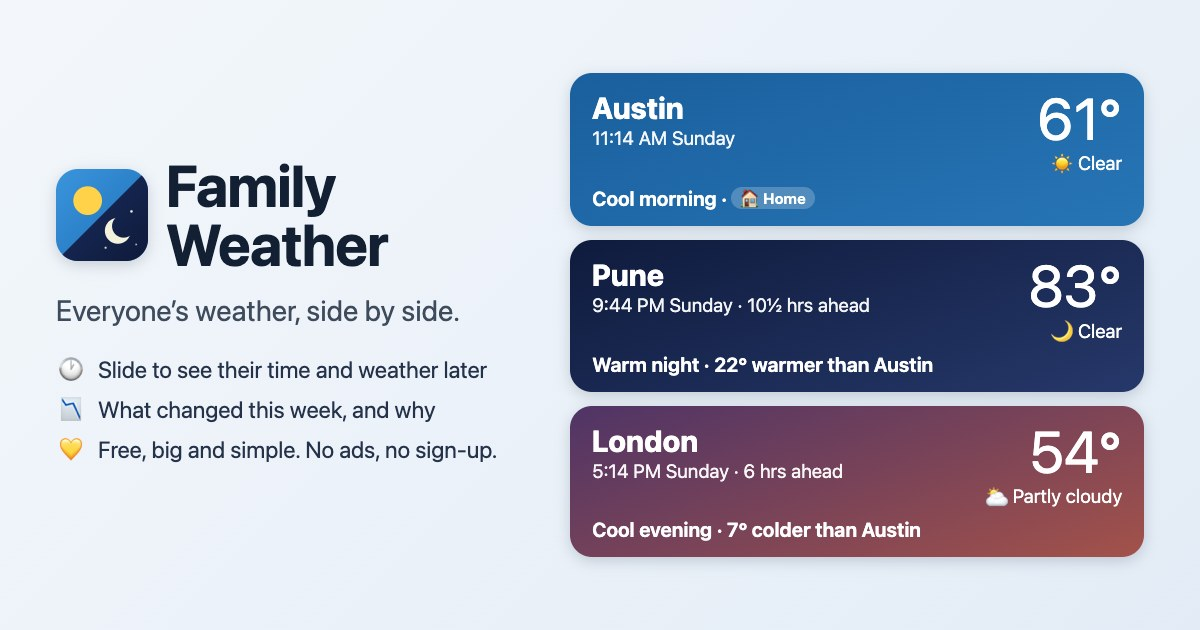
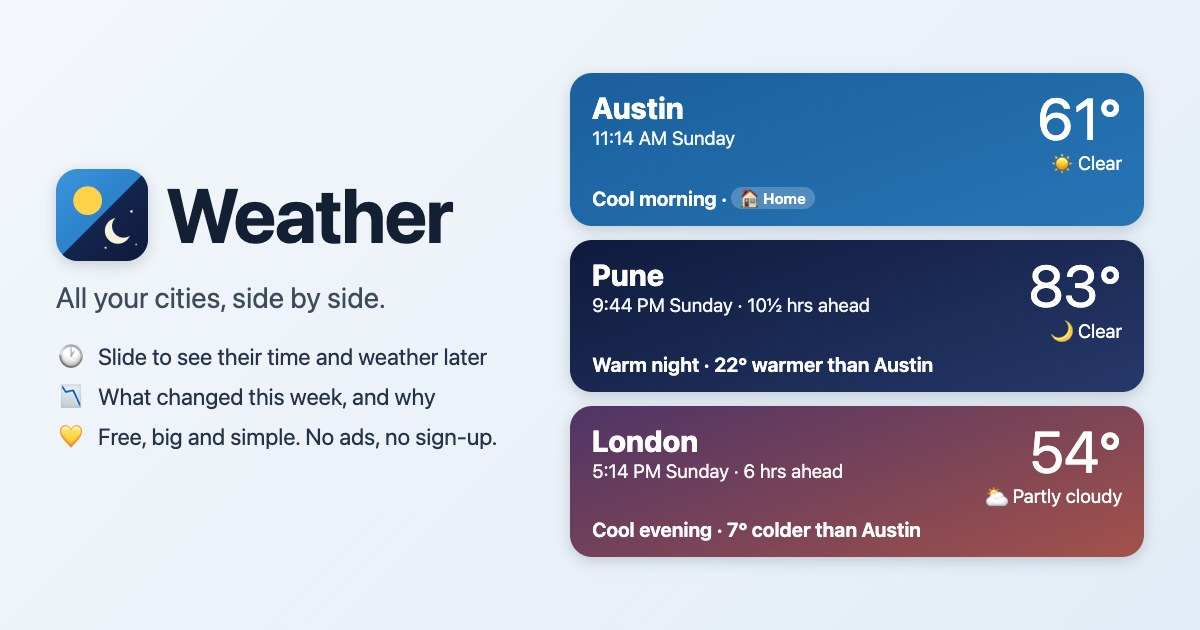
Link preview: just "Weather"
Preview title, site name, description and image drop "Family".
og:image gets ?v=2 so WhatsApp fetches the new image.

Changed region(s): [[0.0308, 0.5429, 0.4317, 0.754], [0.1233, 0.2413, 0.37, 0.4222], [0.0308, 0.4524, 0.4008, 0.5127]]

diff --git a/index.html b/index.html
@@ -16,19 +16,19 @@
 <link rel="manifest" href="manifest.json">
 <link rel="canonical" href="https://danpune.github.io/weather/">
 <meta property="og:type" content="website">
-<meta property="og:site_name" content="Family Weather">
-<meta property="og:title" content="Family Weather: everyone's weather, side by side">
-<meta property="og:description" content="All your family's cities on one page: weather right now, later today, the week ahead and what changed lately. Free, big and simple. No ads, no sign-up.">
+<meta property="og:site_name" content="Weather">
+<meta property="og:title" content="Weather: all your cities, side by side">
+<meta property="og:description" content="All your cities on one page: weather right now, later today, the week ahead and what changed lately. Free, big and simple. No ads, no sign-up.">
 <meta property="og:url" content="https://danpune.github.io/weather/">
-<meta property="og:image" content="https://danpune.github.io/weather/preview.jpg">
+<meta property="og:image" content="https://danpune.github.io/weather/preview.jpg?v=2">
 <meta property="og:image:type" content="image/jpeg">
 <meta property="og:image:width" content="1200">
 <meta property="og:image:height" content="630">
-<meta property="og:image:alt" content="Family Weather: city cards for Austin, Pune and London showing local time and temperature.">
+<meta property="og:image:alt" content="Weather: city cards for Austin, Pune and London showing local time and temperature.">
 <meta name="twitter:card" content="summary_large_image">
-<meta name="twitter:title" content="Family Weather: everyone's weather, side by side">
-<meta name="twitter:description" content="All your family's cities on one page. Free, big and simple. No ads, no sign-up.">
-<meta name="twitter:image" content="https://danpune.github.io/weather/preview.jpg">
+<meta name="twitter:title" content="Weather: all your cities, side by side">
+<meta name="twitter:description" content="All your cities on one page. Free, big and simple. No ads, no sign-up.">
+<meta name="twitter:image" content="https://danpune.github.io/weather/preview.jpg?v=2">
 <style>
 :root{--bg:#eef3f8;--ink:#132033;--mut:#4f5d6e;--line:#dbe3ec;--soft:#f2f5f9;--acc:#1a5f9e}
 *{box-sizing:border-box}
